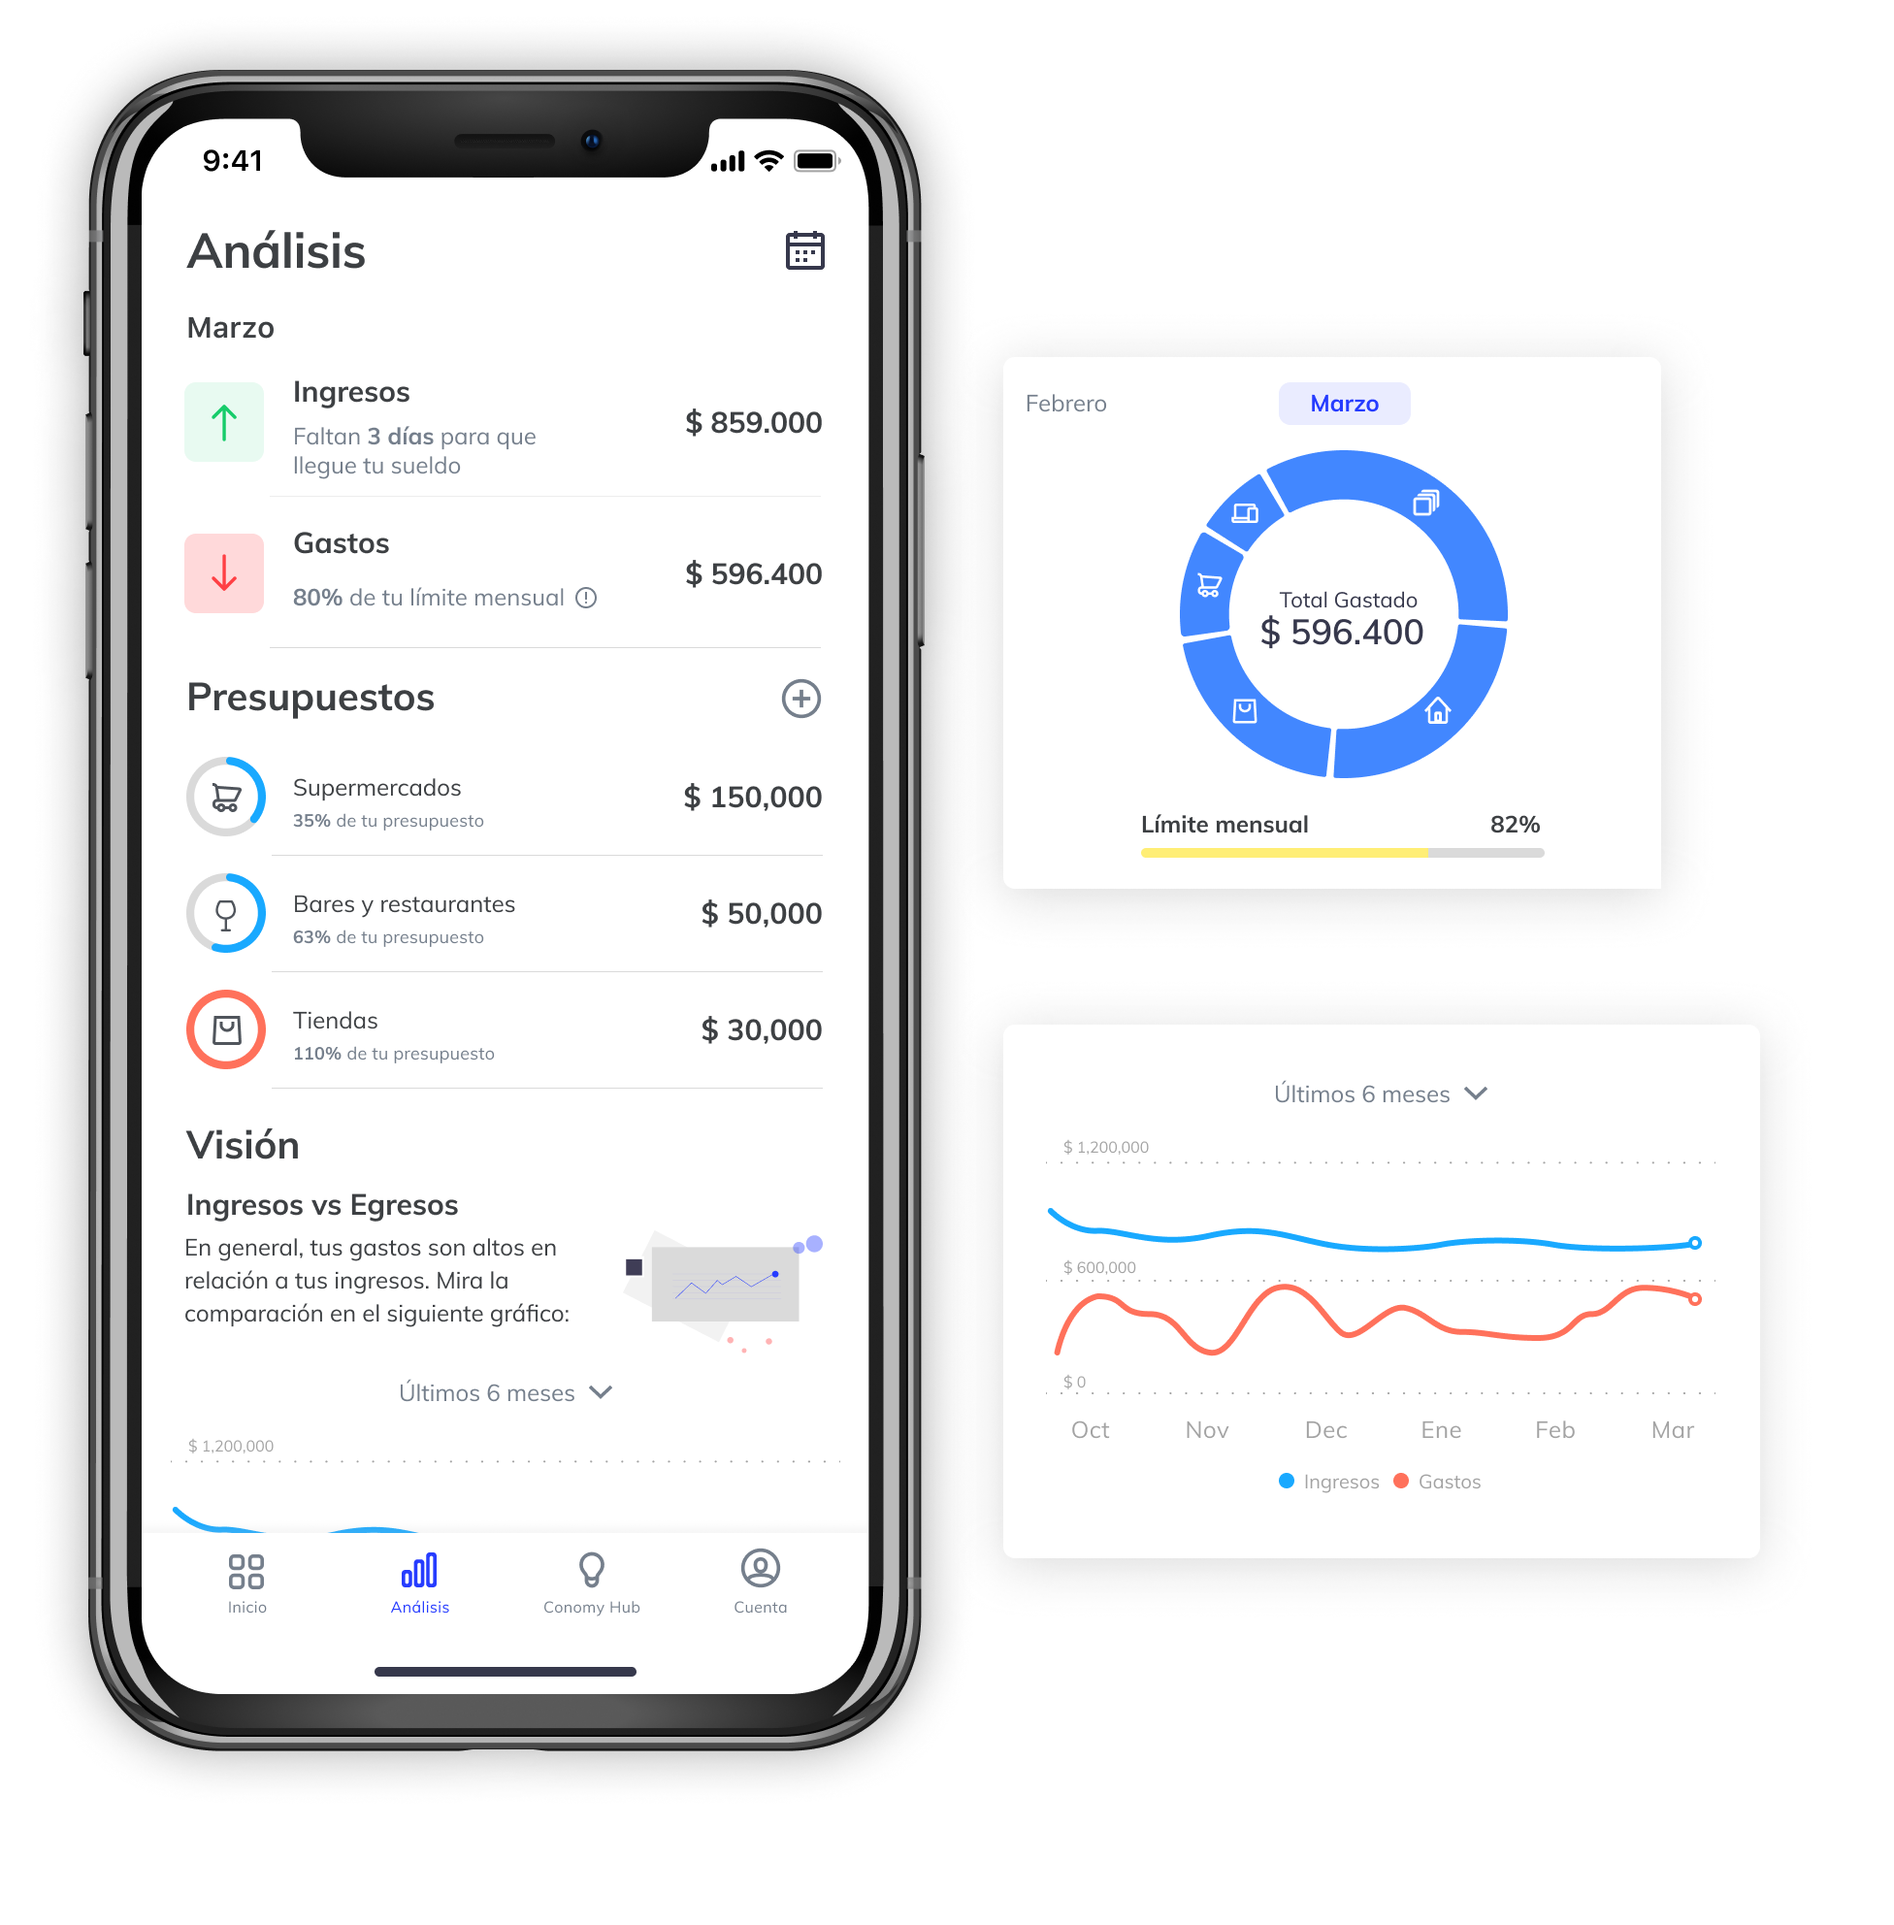
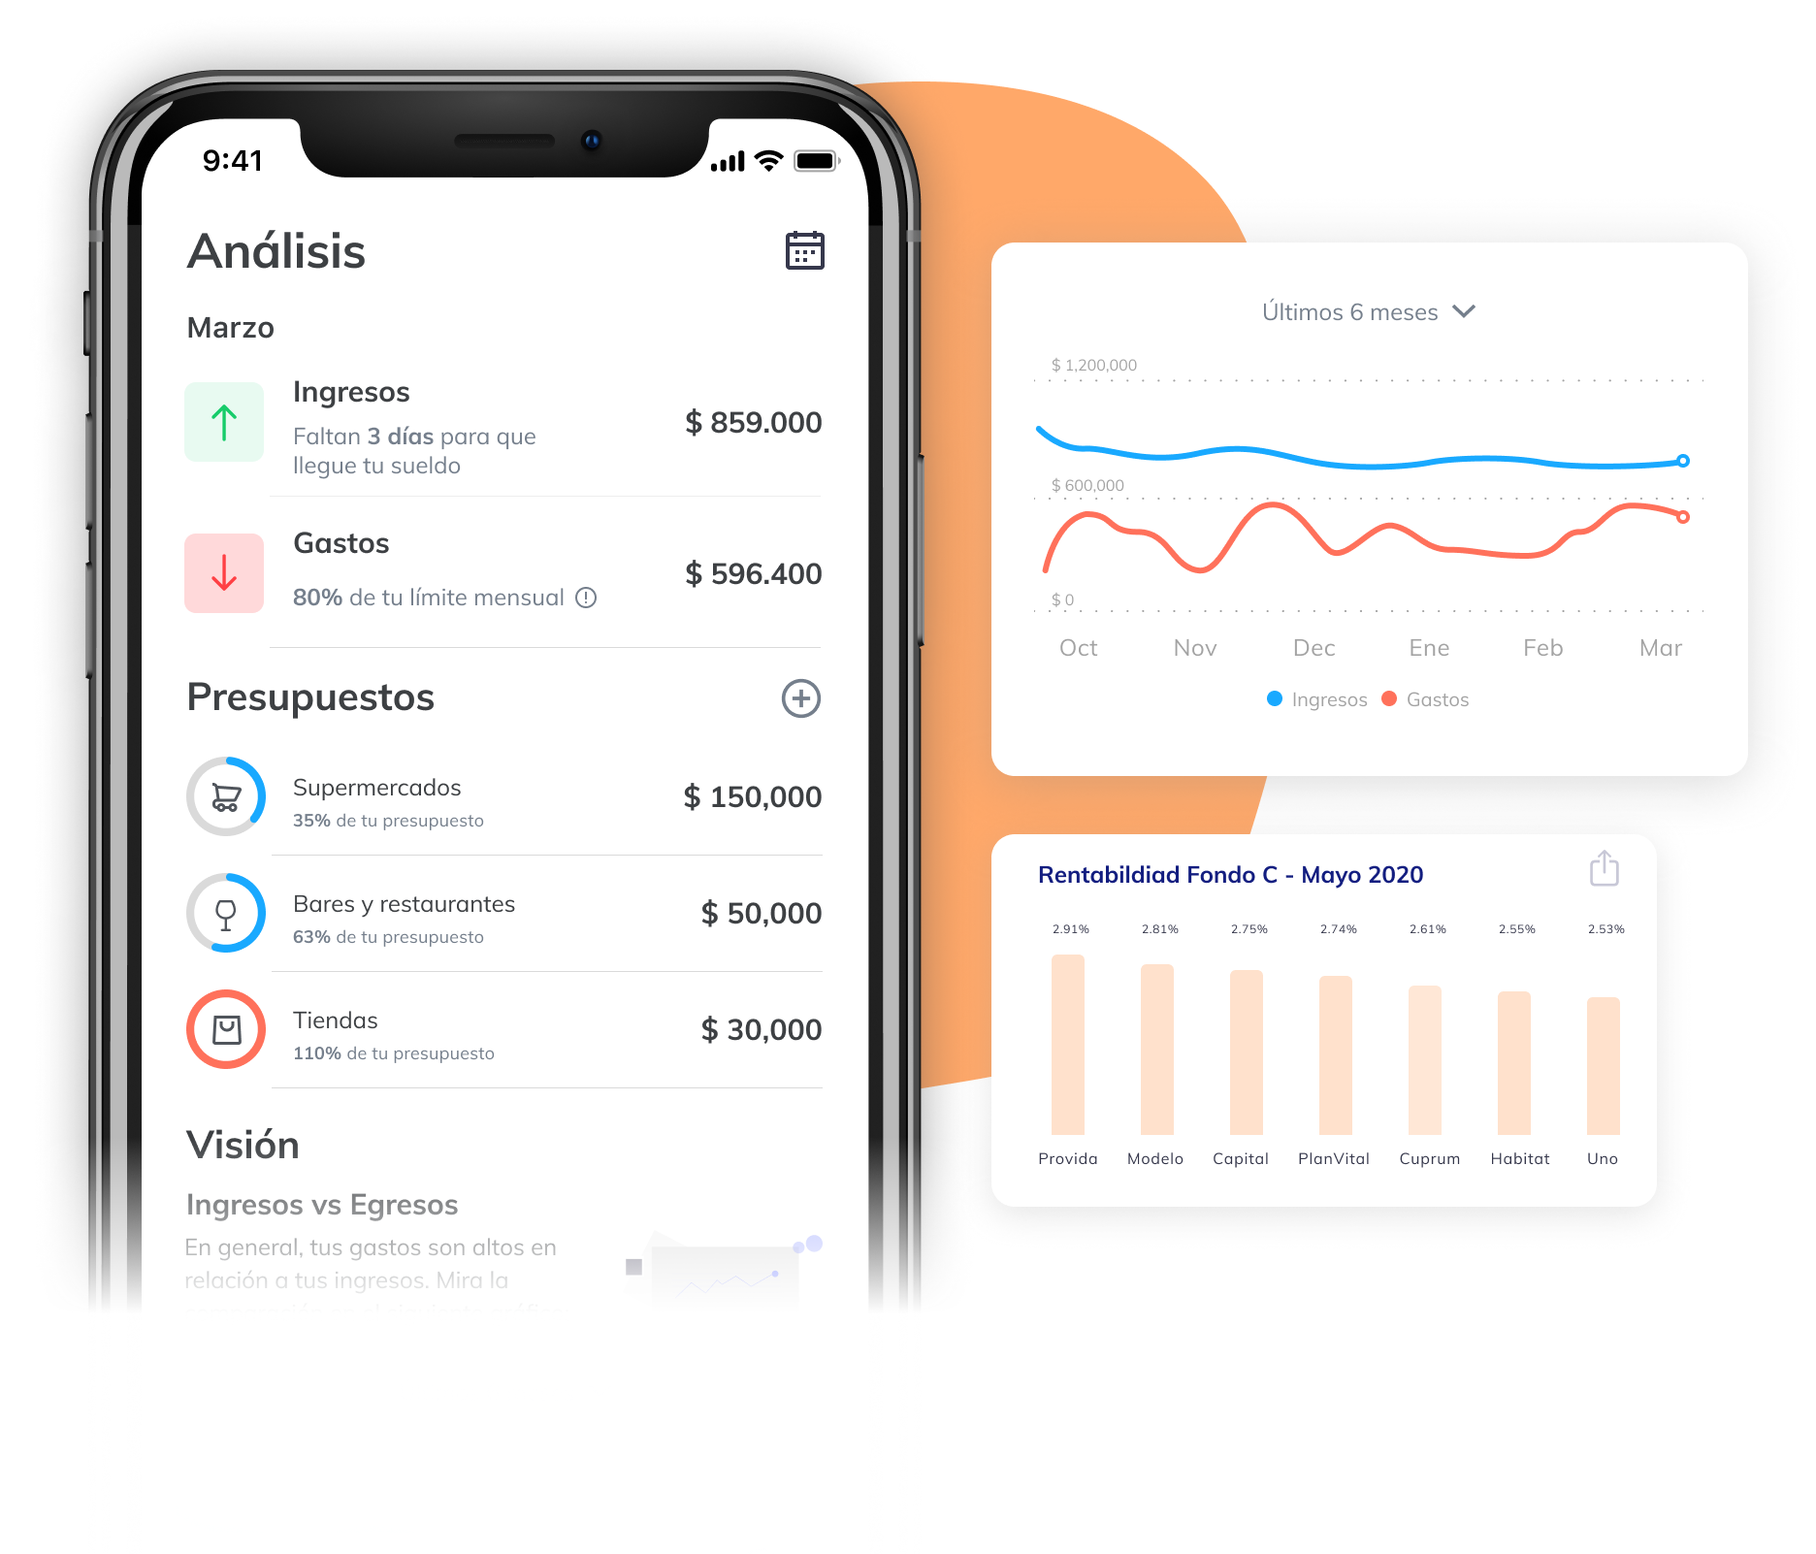
update images and copy

Changed region(s): [[0.031, 0.0312, 0.8985, 0.9363], [0.5887, 0.1873, 0.9295, 0.4682]]

diff --git a/index.html b/index.html
@@ -175,7 +175,7 @@
 			</div>
 		</div>
 		<div class="intro-animation-line">
-			<img src="./images/app/home-screen.png"
+			<img src="./images/app/new_home_landing.png"
 				alt="Pantalla de celular con el inicio de Conomy mostrando balance de cuenta objetivos y tips para ahorrar y manejar dinero"
 				title="" />
 		</div>
@@ -240,7 +240,7 @@
 					<h3 class="grid__title">Estadísticas claras como el agua</h3>
 					<p class="grid__text">Datos fáciles de entender, para que puedas enfocarte en lo que realmente
 						importa.
-						Crea y organiza presupuestos para distintas categorías de acuerdo a tus planes.
+						Crea y organiza presupuestos para distintas categorías de acuerdo a tus necesidades.
 						Planifica mejor con una visión única. </p>
 					<div class="intro__buttons intro__buttons--left modal-toggle" data-openpopup="signuplogin"
 						data-popup="signup">
